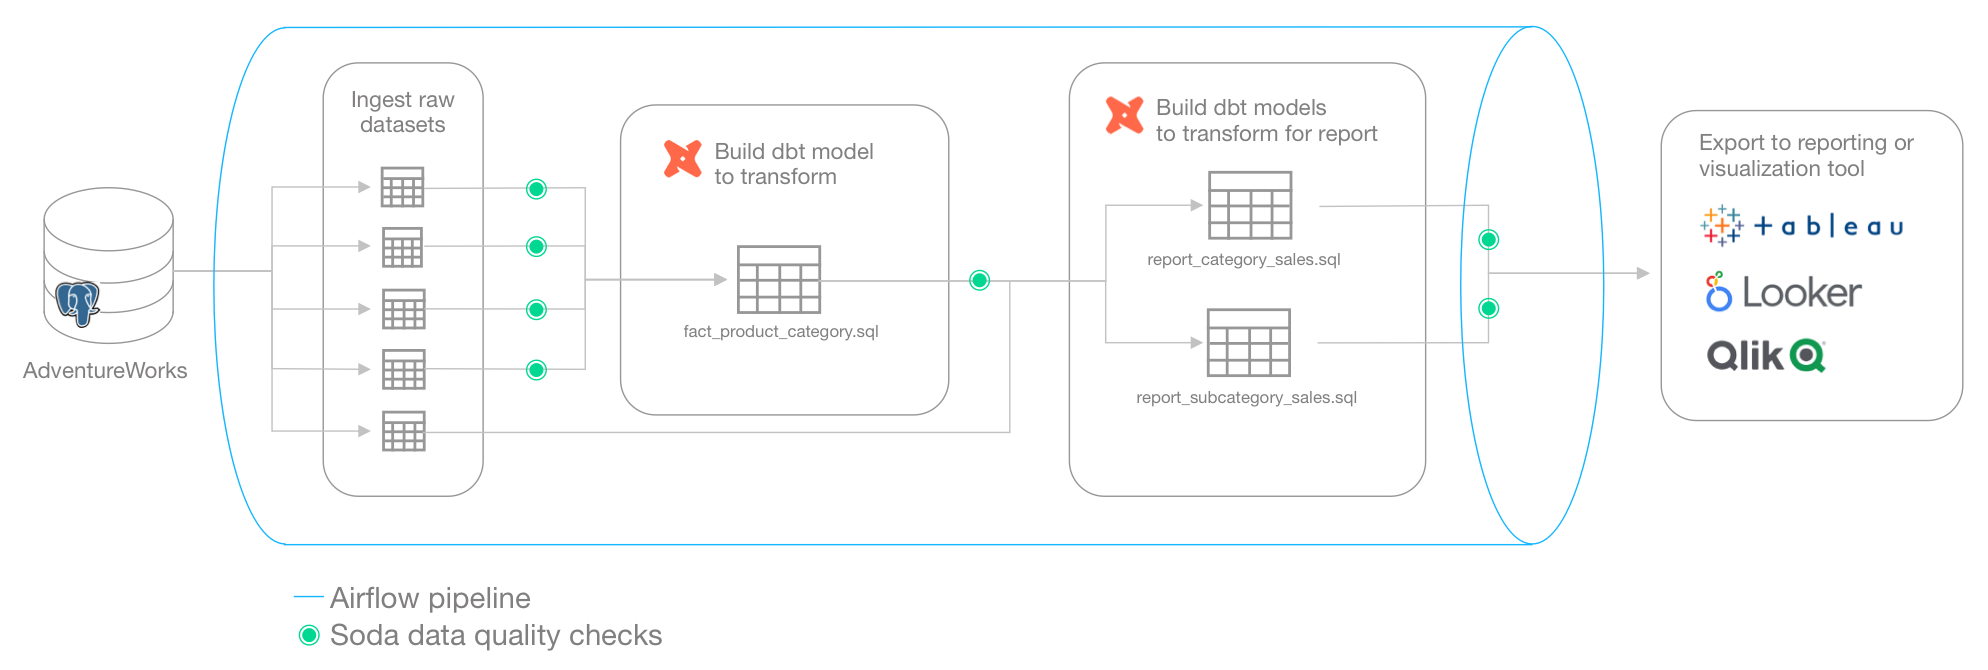
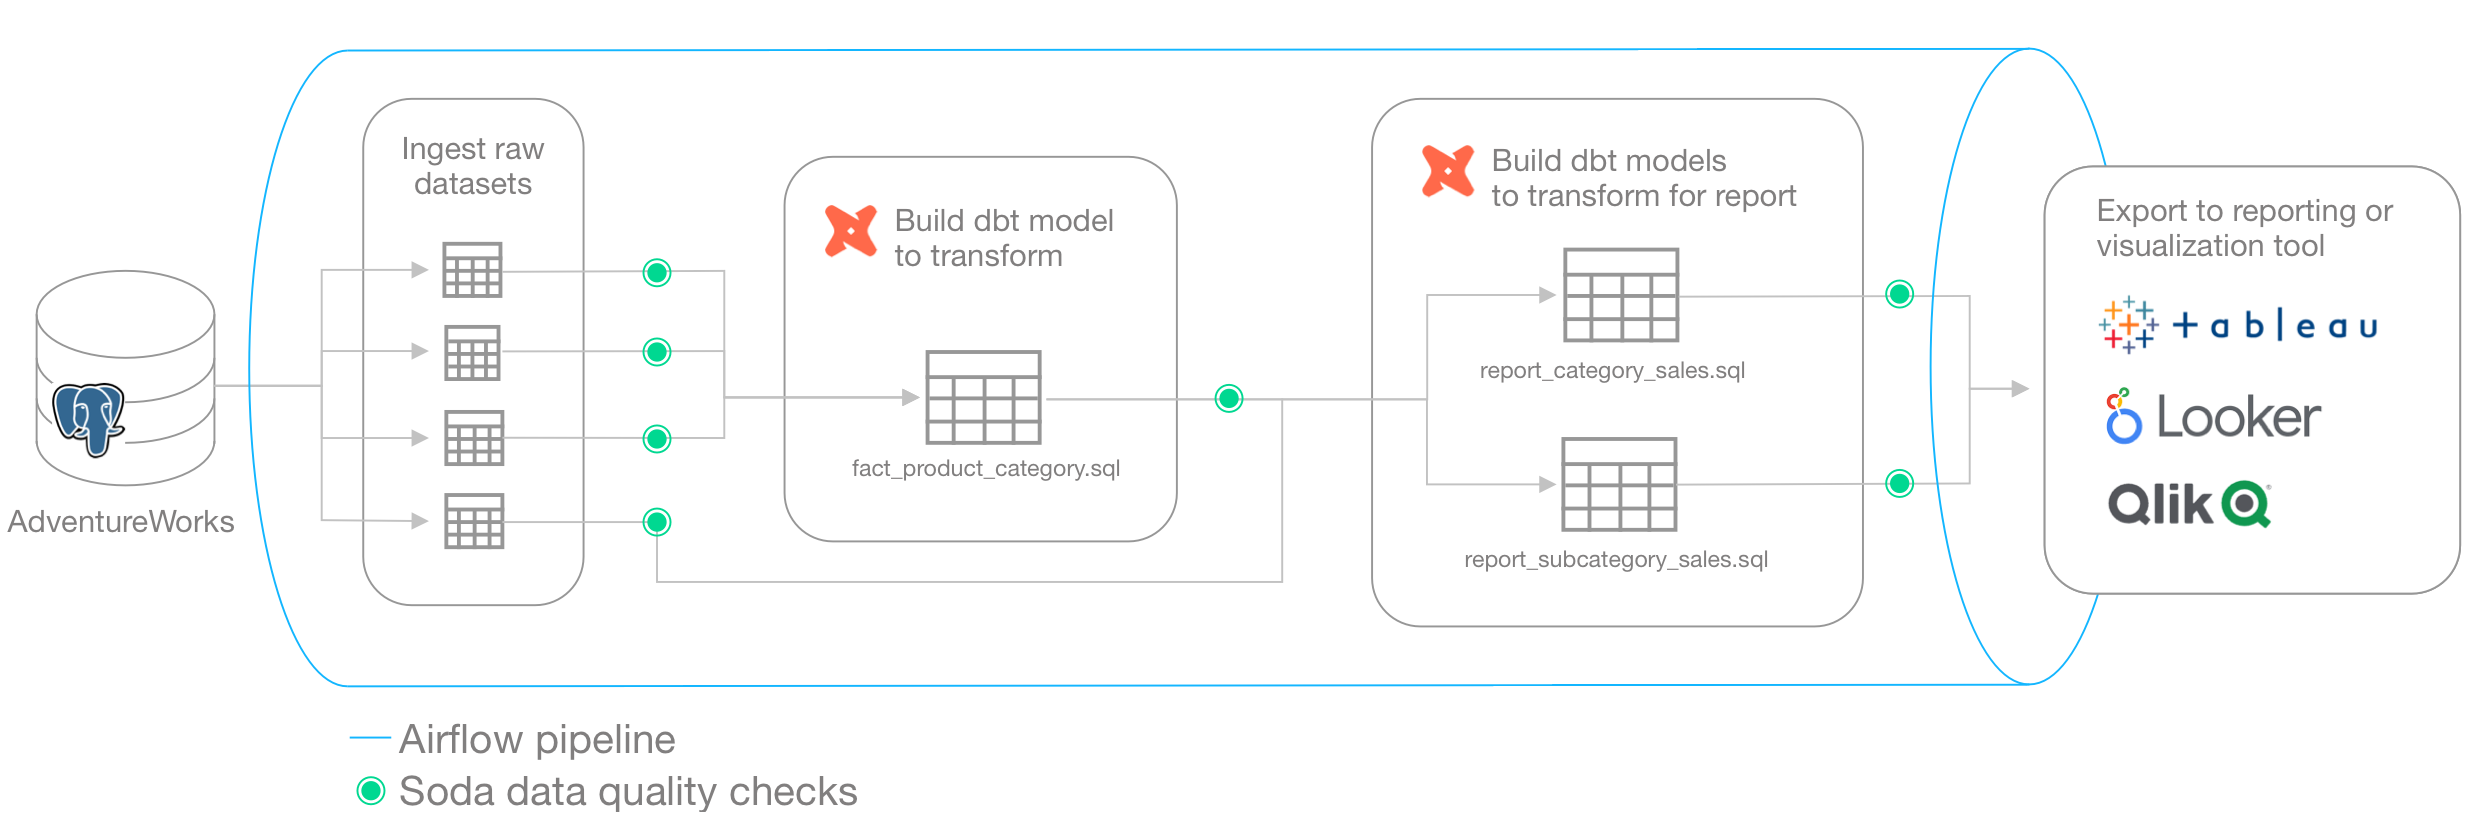
Updated diagrams and made corrections.

diff --git a/_includes/about-soda.md b/_includes/about-soda.md
@@ -3,7 +3,7 @@ Soda is a platform that enables Data Engineers to test data for quality where an
 Is your data fresh? Is it complete or missing values? Are there unexpected duplicate values? Did something go wrong during transformation? Are all the data values valid? These are the questions that Soda answers for Data Engineers.
 
 * Use Soda with GitHub Actions to test data quality during CI/CD development.
-* Use it with AirFlow to test data quality after ingestion and transformation in your pipeline.
+* Use it with Airflow to test data quality after ingestion and transformation in your pipeline.
 * Import your dbt tests into the Soda platform to facilitate issue investigation and track dataset health over time.
 * Integrate Soda with your data catalog to gauge dataset health from within the catalog.
 
@@ -18,7 +18,7 @@ To test your data quality, you install the **Soda CLI tool** and sign up for a *
 * **Run a scan to execute your data quality checks.** <br />During a scan, Soda does not ingest your data, it only scans it for quality metrics, then uses the metadata to prepare scan results<sup>1</sup>. After a scan, each check results in one of three default states:
     * pass: the values in the dataset match or fall within the thresholds you specified
     * fail: the values in the dataset do not match or fall within the thresholds you specified
-    * error: the syntax of the check is invalid
+    * error: the syntax of the check is invalid, or there are runtime or credential errors
     * A fourth state, warn, is something you can explicitly configure for individual checks. 
 * **Review scan results and investigate issues.** <br />You can review the scan output in the command-line and in your Soda platform account. Add API keys to the same `configuration.yml` file to push check results to your account so you can access visualized scan results, set alert notifications, track trends in data quality over time, and integrate with the messaging, ticketing, and data cataloging tools you already use, like Slack, Jira, and Alation.
 
@@ -26,5 +26,5 @@ To test your data quality, you install the **Soda CLI tool** and sign up for a *
 
 Learn more about [How Soda works]({% link soda-core/how-core-works.md %}).<br />
 Learn more about [running Soda scans]({% link soda-core/scan-core.md %}).<br />
-Learn more about [SodaCL Metrics and checks]({% link soda-cl/metrics-and-checks.md %}).<br />
+Learn more about [SodaCL]({% link soda-cl/metrics-and-checks.md %}).<br />
 Access the [Glossary]({% link soda/glossary.md %}) for a full list of Soda terminology. 

diff --git a/soda/quick-start-dev.md b/soda/quick-start-dev.md
@@ -10,6 +10,9 @@ parent: Get started
 
 Use this guide to install and set up Soda to test the quality of your data during your development lifecycle. Catch data quality issues in a GitHub pull request before merging data management changes, such as transformations, into production.
 
+
+(Not quite ready for this big gulp of Soda? 🥤Try [taking a sip]({% link soda/quick-start-sip.md %}), first.)
+
 ![cicd-pipeline](/assets/images/cicd-pipeline.png){:width="700px"}
 
 **[01](#soda-basics)** Learn the basics of Soda<br />
@@ -38,9 +41,6 @@ For context, the example assumes that a team of people use GitHub to collaborate
 Where the scan results indicate an issue with data quality, Soda notifies the team via a notification in Slack so that they can investigate and address any issues before merging the PR into production.
 
 Borrow from this guide to connect to your own data source, set up a GitHub Action job, and execute your own relevant tests for data quality to prevent issues in production.
-
-(Not quite ready for this big gulp of Soda? 🥤Try [taking a sip]({% link soda/quick-start-sip.md %}), first.)
-
 
 ## Install Soda from the command line
 
@@ -566,6 +566,7 @@ To trigger the GitHub Action job and initiate a Soda scan for data quality, crea
 
 ## Need help?
 
+* Not quite ready for this big gulp of Soda? 🥤Try [taking a sip]({% link soda/quick-start-sip.md %}), first.
 * <a href="https://www.soda.io/schedule-a-demo" target="_blank">Request a demo</a>. Hey, what can Soda do for you?
 * Join the <a href="https://community.soda.io/slack" target="_blank"> Soda community on Slack</a>.
 <br />

diff --git a/soda/quick-start-prod.md b/soda/quick-start-prod.md
@@ -10,6 +10,8 @@ parent: Get started
 
 Use this guide as an example for how to set up and use Soda to test the quality of your data in an Airflow pipeline. Automatically catch data quality issues after ingestion or transformation to prevent negative downstream impact.
 
+(Not quite ready for this big gulp of Soda? 🥤Try [taking a sip]({% link soda/quick-start-sip.md %}), first.)
+
 ![data-pipeline](/assets/images/data-pipeline.png){:width="700px"}
 
 **[01](#soda-basics)** Learn the basics of Soda<br />
@@ -42,7 +44,6 @@ Access the <a href="https://github.com/sodadata/sip-of-soda/tree/main/test-in-pi
 
 Borrow from this guide to connect to your own data source, set up scan points in your pipeline, and execute your own relevant tests for data quality.
 
-(Not quite ready for this big gulp of Soda? 🥤Try [taking a sip]({% link soda/quick-start-sip.md %}), first.)
 
 ## Install Soda from the command-line
 
@@ -502,6 +503,7 @@ Learn more about [running Soda scans]({% link soda-core/scan-core.md %}).
 
 ## Need help?
 
+* Not quite ready for this big gulp of Soda? 🥤Try [taking a sip]({% link soda/quick-start-sip.md %}), first.
 * <a href="https://www.soda.io/schedule-a-demo" target="_blank">Request a demo</a>. Hey, what can Soda do for you?
 * Join the <a href="https://community.soda.io/slack" target="_blank"> Soda community on Slack</a>.
 <br />

diff --git a/soda/product-overview.md b/soda/product-overview.md
@@ -57,7 +57,7 @@ checks for ORDERS:
 ```
 
 
-Soda uses the input in the checks YAML files to prepare SQL queries that it runs against your data during a scan. During a scan, Soda does not ingest your data, it only scans it for quality metrics, then uses the metadata to prepare scan results. (An exception to this rule is when Soda collects failed row samples that it presents in scan output to aid issue investigation, a feature you can [disable]({% link soda-cloud/failed-rows.md %}#disable-failed-row-samples).)
+Soda uses the input in the checks YAML files to prepare SQL queries that it runs against your data during a scan. During a scan, Soda does not ingest your data, it only scans it for quality metrics, then uses the metadata to prepare scan results. (An exception to this rule is when Soda collects failed row samples that it presents in scan output to aid with issue investigation, a feature you can [disable]({% link soda-cloud/failed-rows.md %}#disable-failed-row-samples).)
 
 After a scan, each check results in one of three default states:
 * pass: the values in the dataset match or fall within the thresholds you specified
